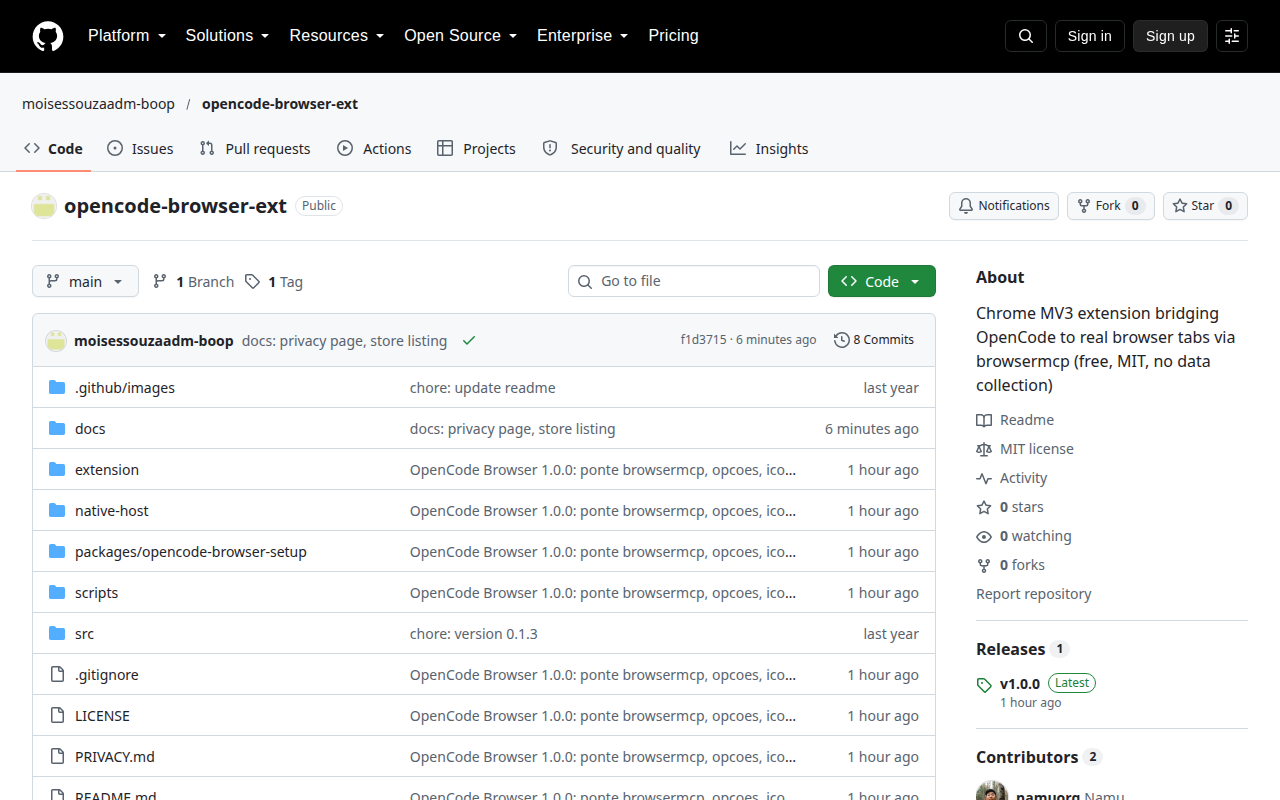
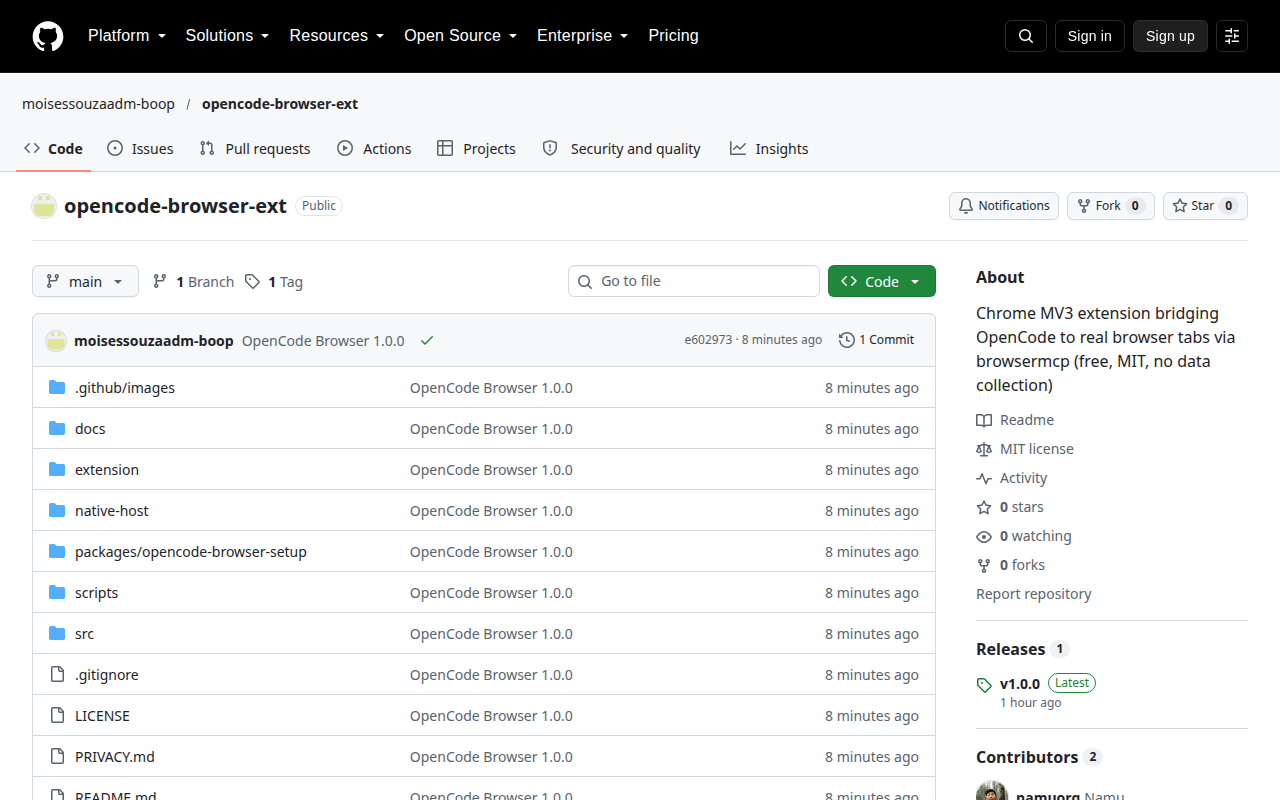
governanca: contribuicao via issues, sem colaboradores

diff --git a/CONTRIBUTING.md b/CONTRIBUTING.md
@@ -1,0 +1,6 @@
+# Contributing
+
+- **No direct collaborators.** All work lands via Issues and Pull Requests.
+- **Bugs and issues are triaged by the maintainer (AI-assisted) before anything is merged or released.** Open an issue first; unsolicited PRs without a linked issue may be closed.
+- PRs must: describe the problem, keep the diff minimal, pass `npm run build` in `extension/`, and never include secrets, keys (`.pem`), or binaries (`.crx`).
+- Releases and signing (`.crx`, `updates.xml`) are done only by the maintainer via `scripts/release.sh`.

diff --git a/.github/ISSUE_TEMPLATE/bug_report.md b/.github/ISSUE_TEMPLATE/bug_report.md
@@ -1,0 +1,23 @@
+---
+name: Bug report
+about: Report a problem for triage before any fix is merged
+title: "[bug] "
+labels: bug
+---
+
+## O que aconteceu
+<!-- descrição objetiva -->
+
+## Passos para reproduzir
+1.
+2.
+
+## Esperado vs. obtido
+<!-- esperado / obtido -->
+
+## Ambiente
+- Versão da extensão (`chrome://extensions`):
+- URL da página (sem dados sensíveis):
+- Trecho do console (se houver):
+
+> Nota: toda correção passa por análise antes de entrar em release.

diff --git a/README.md b/README.md
@@ -38,7 +38,7 @@ Auto-update without any store: see `docs/updates.md` (managed policy + GitHub Pa
 
 ## License
 
-MIT — see [LICENSE](LICENSE).
+MIT — see [LICENSE](LICENSE). No outside collaborators: see [CONTRIBUTING](CONTRIBUTING.md) (issues and PRs only, everything triaged before merge).
 
 ---
 
